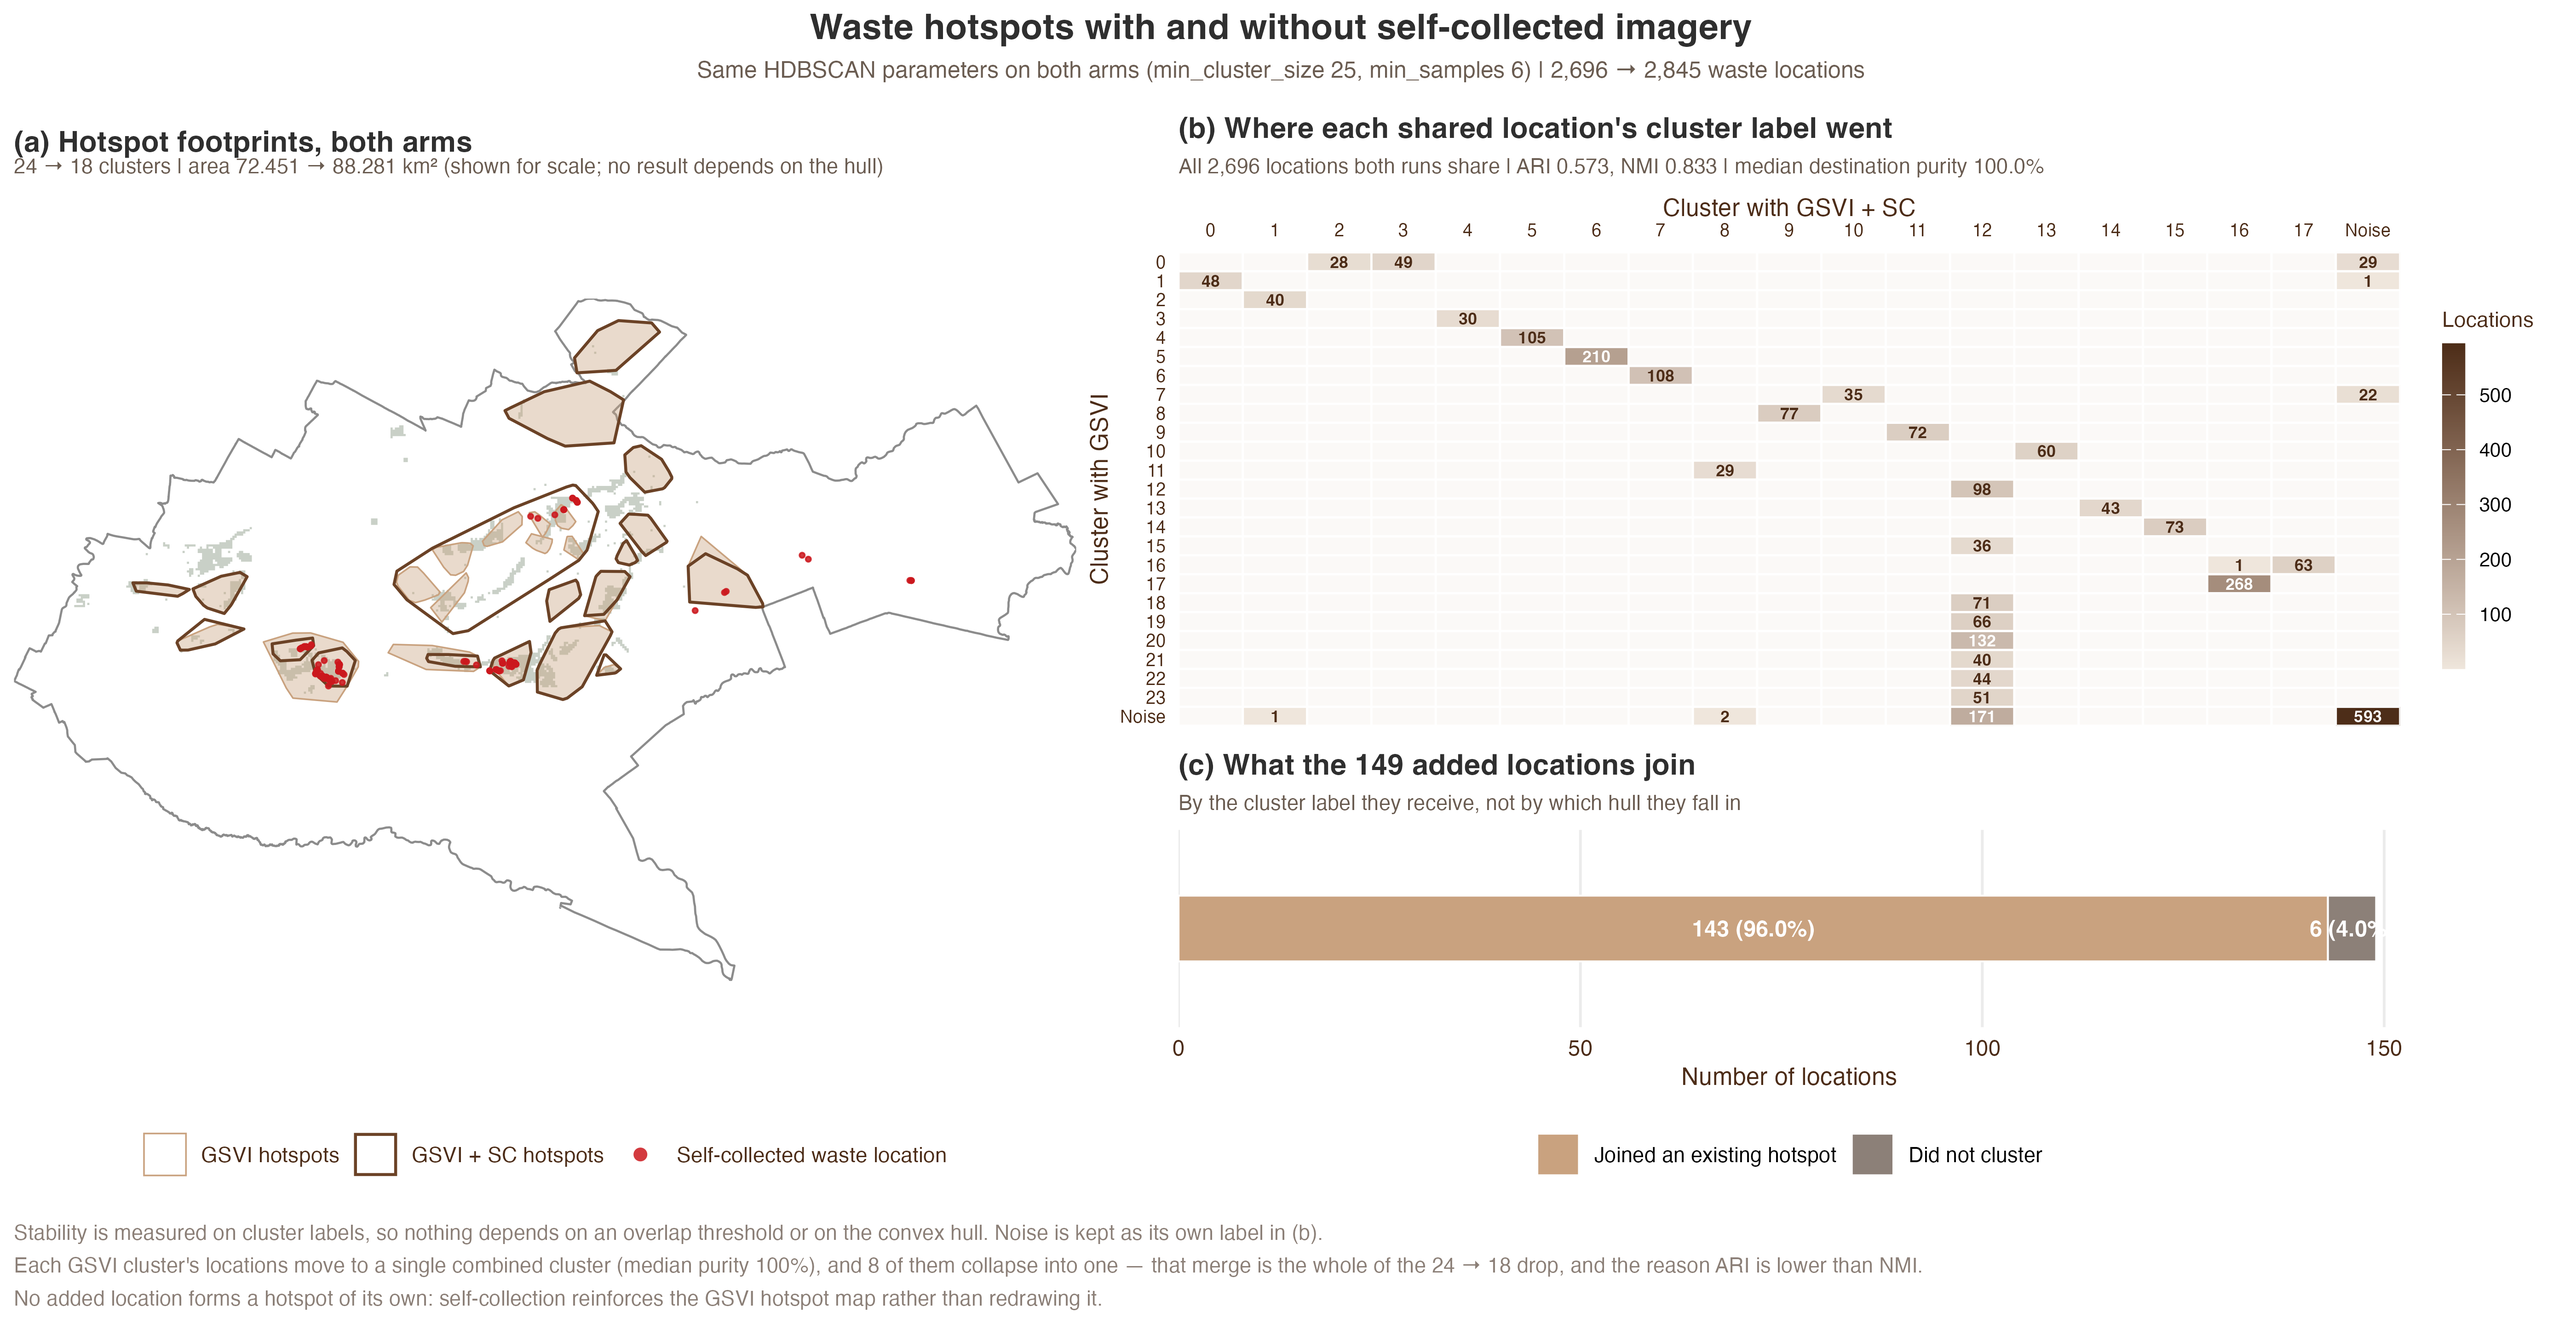
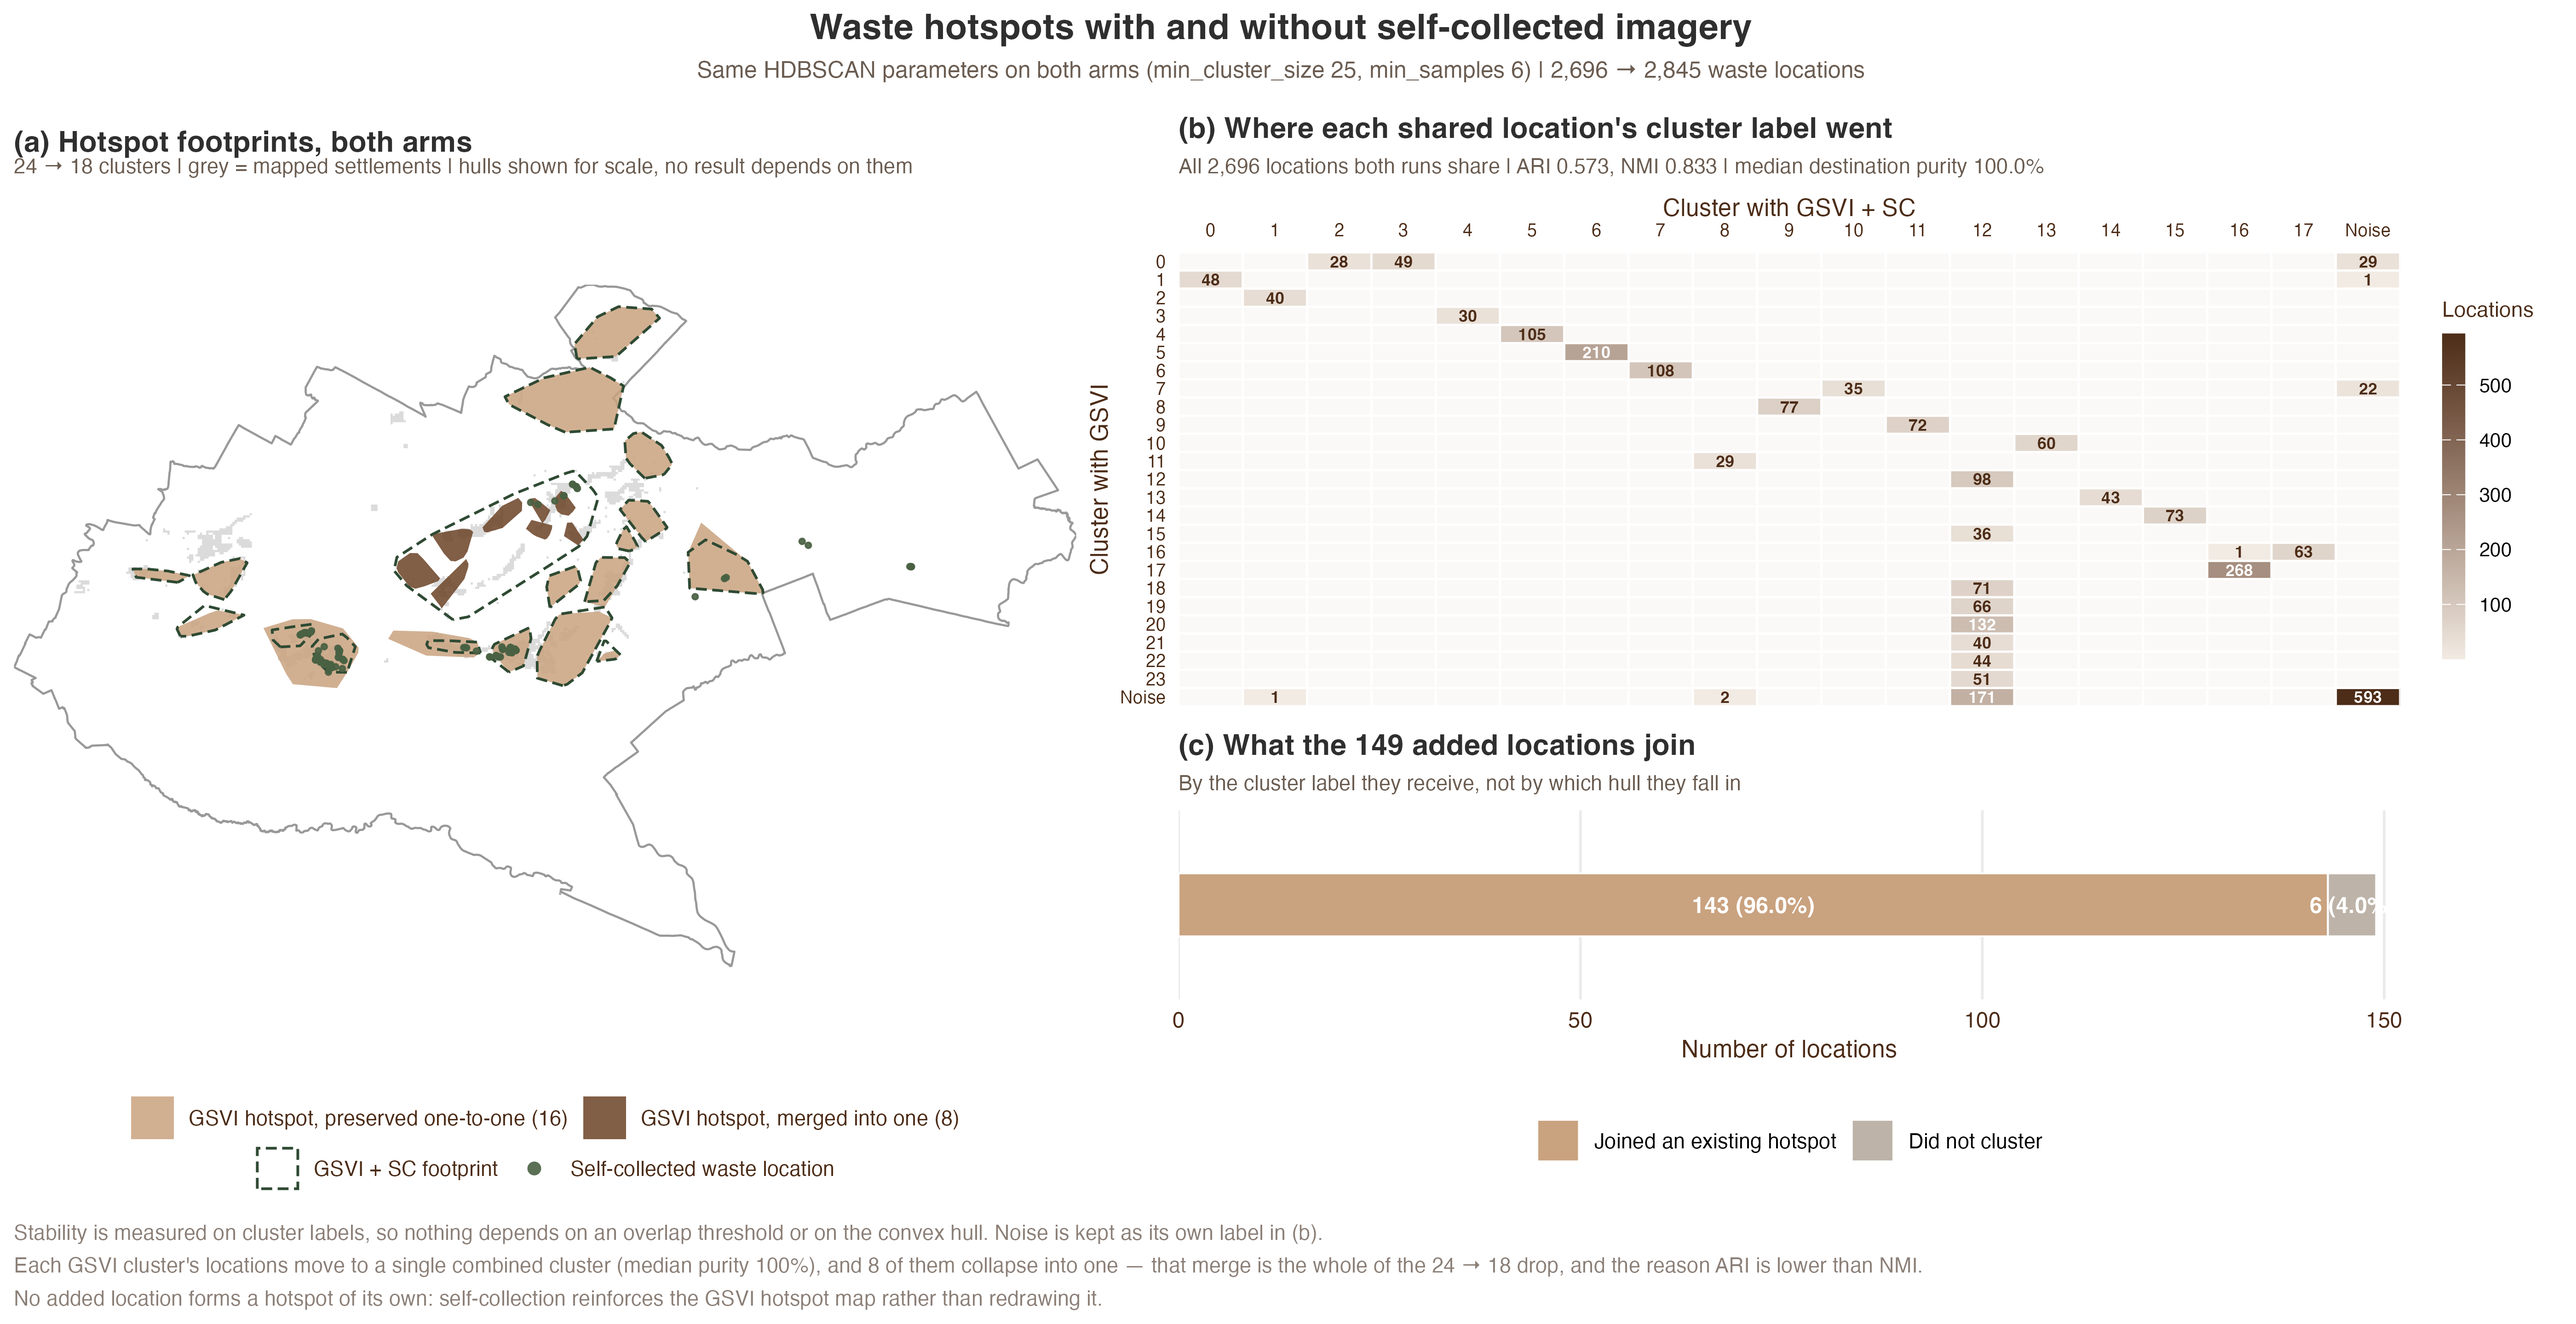
Recolour 6.3 to the chapter palette, tie 6.4a panel (a) to the merge
6.3: red/blue replaced with the chapter brown (moved up) and green (moved
down). Settlement polygons drop to grey in this figure so the green in the
legend is unambiguous.

6.4a panel (a) was just two overlapping hull sets and did not earn its place.
1_sc_hdbscan.py now writes each GSVI cluster's fate onto the hull layer
(destination cluster, destination purity, merged vs preserved), so the map
fills the 8 hulls that collapse into one in dark brown against the 16 that
survive one-to-one in beige, with the combined footprint as a dashed outline
over the top. The merge is now visible in (a) and quantified in (b) instead of
living only in the matrix.

diff --git a/6_selfcollected/4_pattern/HDBSCAN/1_sc_hdbscan.py b/6_selfcollected/4_pattern/HDBSCAN/1_sc_hdbscan.py
@@ -187,6 +187,35 @@ def transition_matrix(paired: pd.DataFrame) -> pd.DataFrame:
     return ct
 
 
+def cluster_fates(paired: pd.DataFrame) -> pd.DataFrame:
+    """Per GSVI cluster: which combined cluster took its locations, and was it a merge?
+
+    Written onto the GSVI hull layer so the map can show the merge directly
+    instead of leaving it to the transition matrix alone.
+    """
+    clustered = paired[paired["cluster_gsvi"] != -1]
+    dest = clustered.groupby("cluster_gsvi")["cluster_gsc"].agg(
+        lambda s: s.value_counts().idxmax()
+    )
+    purity = clustered.groupby("cluster_gsvi")["cluster_gsc"].agg(
+        lambda s: s.value_counts().iloc[0] / len(s)
+    )
+    absorbed = dest[dest != -1].value_counts()
+    merged_dests = set(absorbed[absorbed > 1].index)
+    return pd.DataFrame(
+        {
+            "HDB_cluster": dest.index.astype(int),
+            "dest_cluster": dest.to_numpy(),
+            "dest_purity": purity.to_numpy(),
+            "fate": [
+                "Dissolved into noise" if d == -1
+                else ("Merged with other hotspots" if d in merged_dests else "Preserved one-to-one")
+                for d in dest.to_numpy()
+            ],
+        }
+    )
+
+
 def merge_summary(paired: pd.DataFrame) -> dict:
     """How the 24 GSVI clusters map onto the combined ones."""
     clustered = paired[(paired["cluster_gsvi"] != -1)]
@@ -289,6 +318,13 @@ def main() -> None:
     paired = paired_labels(gsvi["points"], combined["points"])
     scores = agreement_scores(paired)
     merges = merge_summary(paired)
+    fates = cluster_fates(paired)
+    hulls = gsvi["hulls"].merge(fates, on="HDB_cluster", how="left")
+    hulls["fate"] = hulls["fate"].fillna("Preserved one-to-one")
+    hulls.to_file(hotspots_gpkg("gsvi"), driver="GPKG")
+    print(f"\nGSVI hull fates written to {hotspots_gpkg('gsvi').name}:")
+    print(hulls["fate"].value_counts().to_string())
+
     ct = transition_matrix(paired)
     print(f"\nGSVI cluster (rows) x combined cluster (columns), shared locations:")
     print(ct.to_string())
